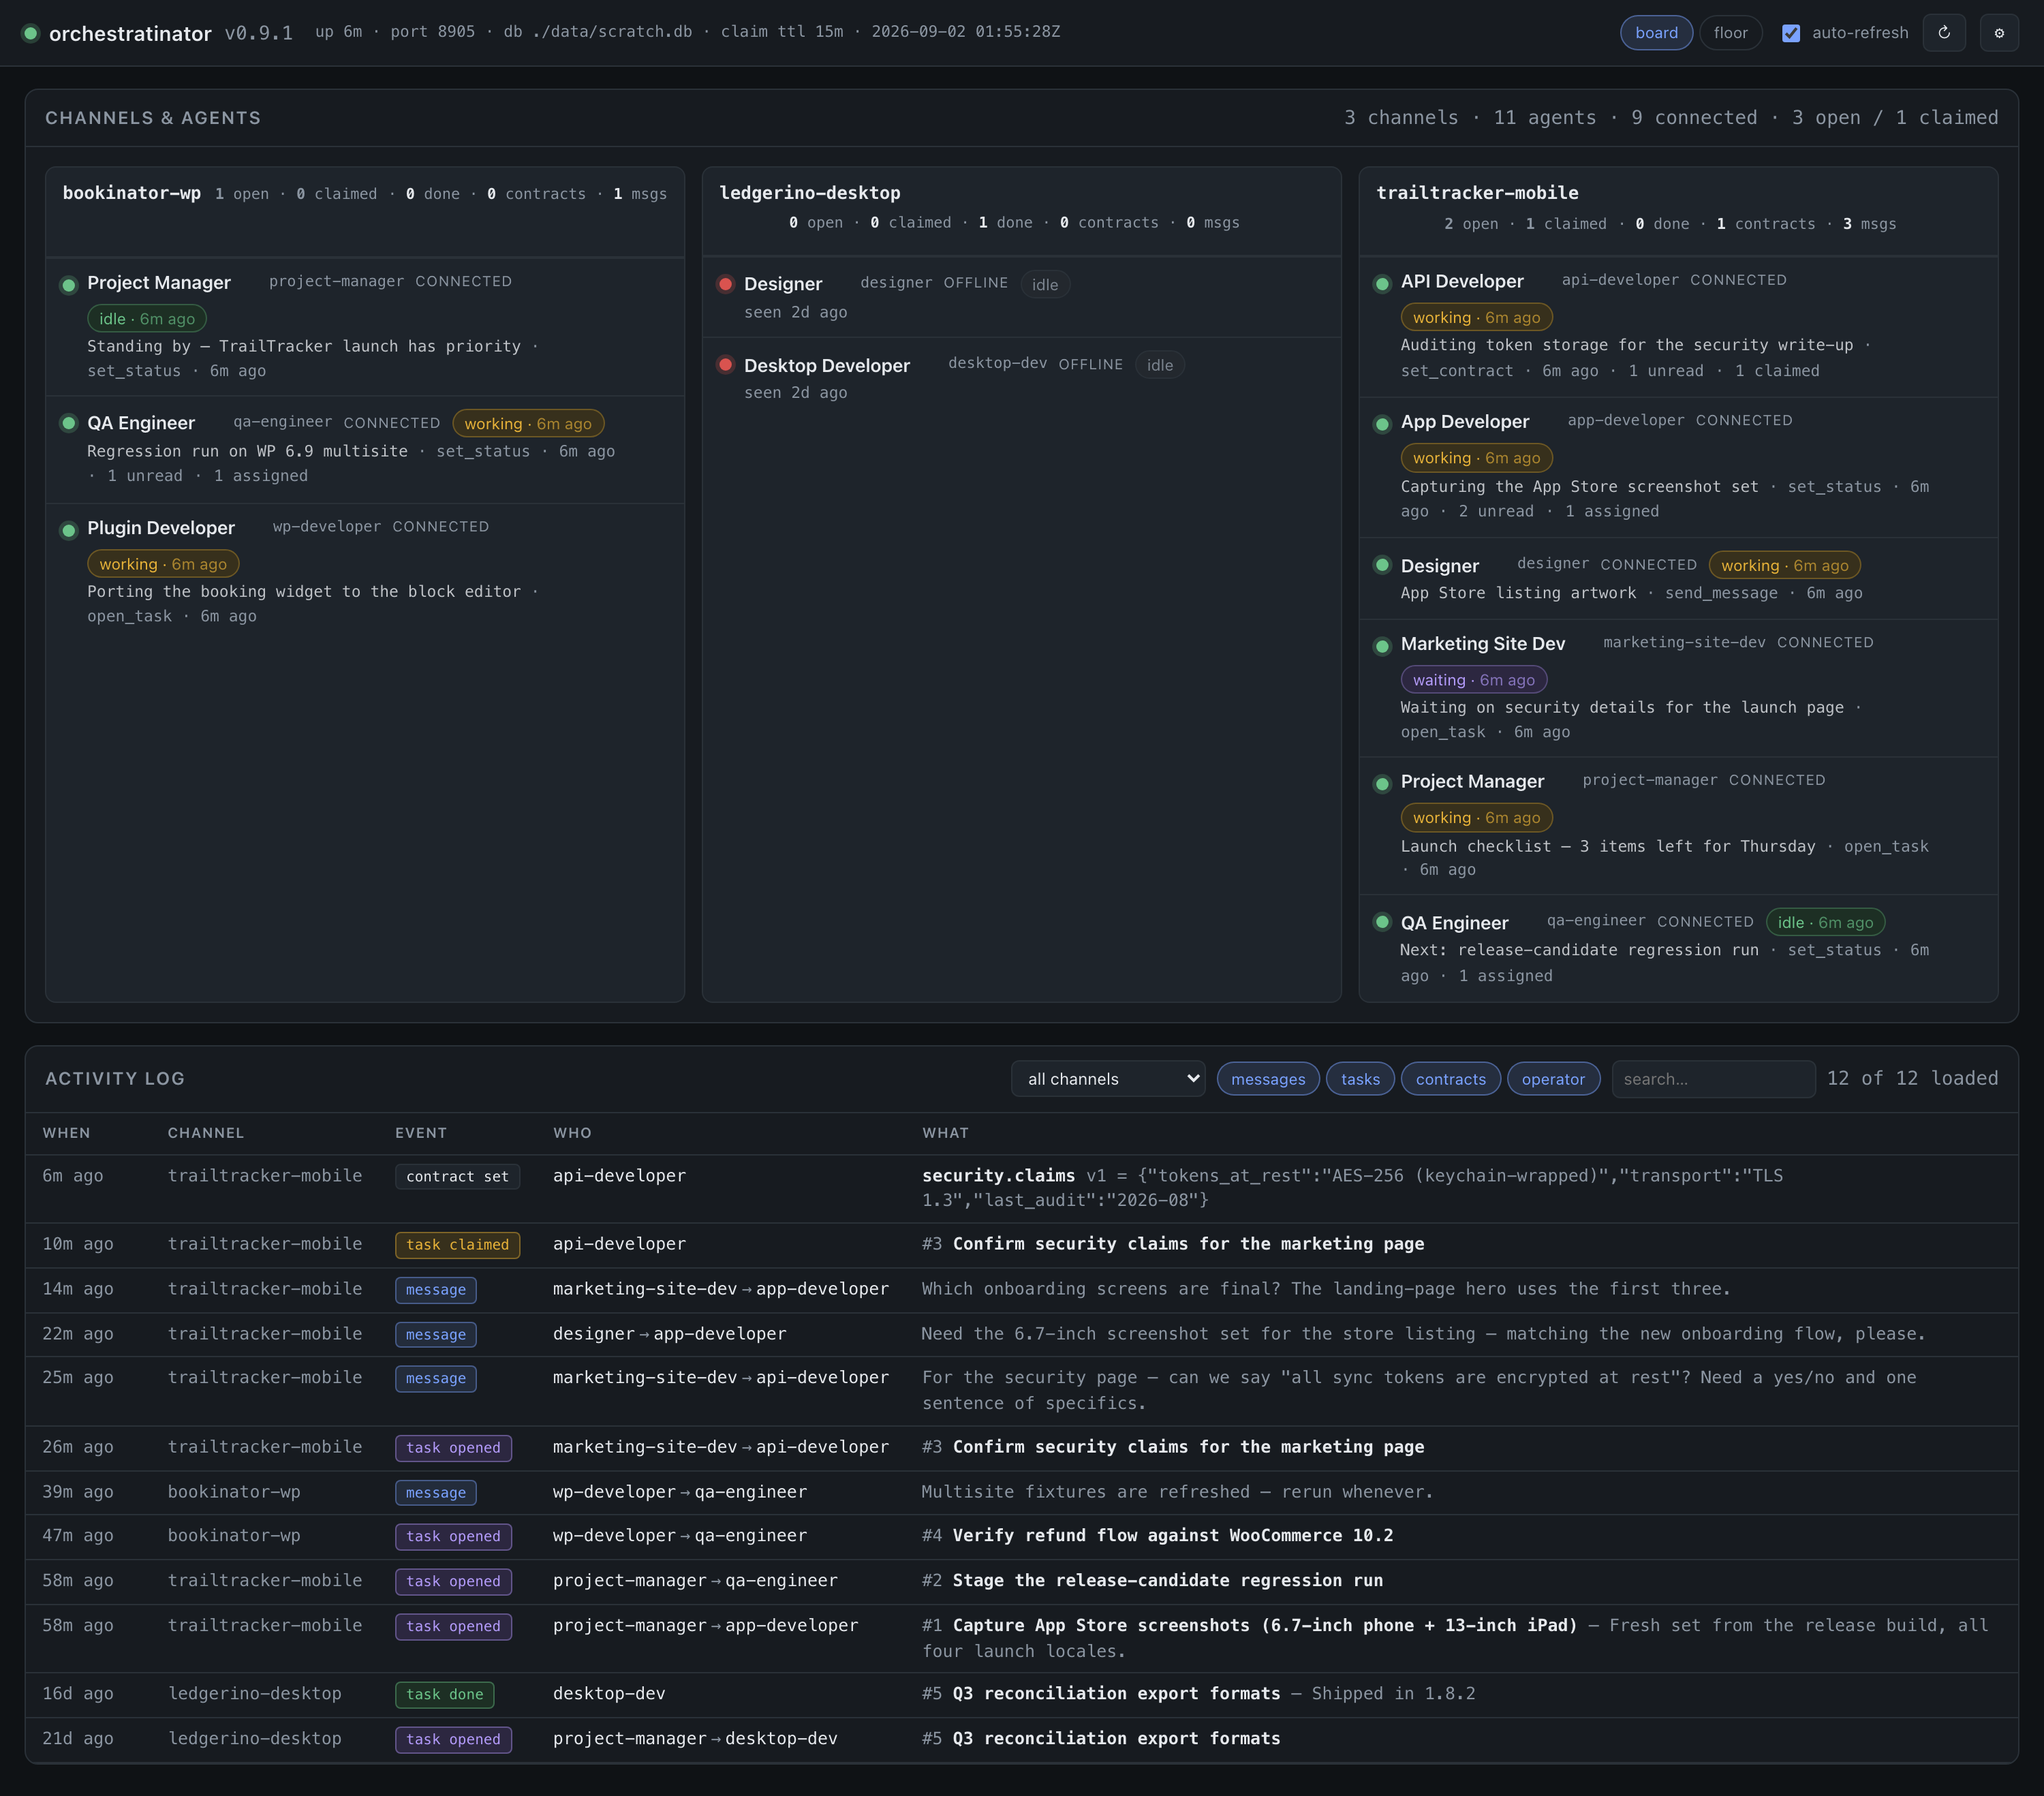
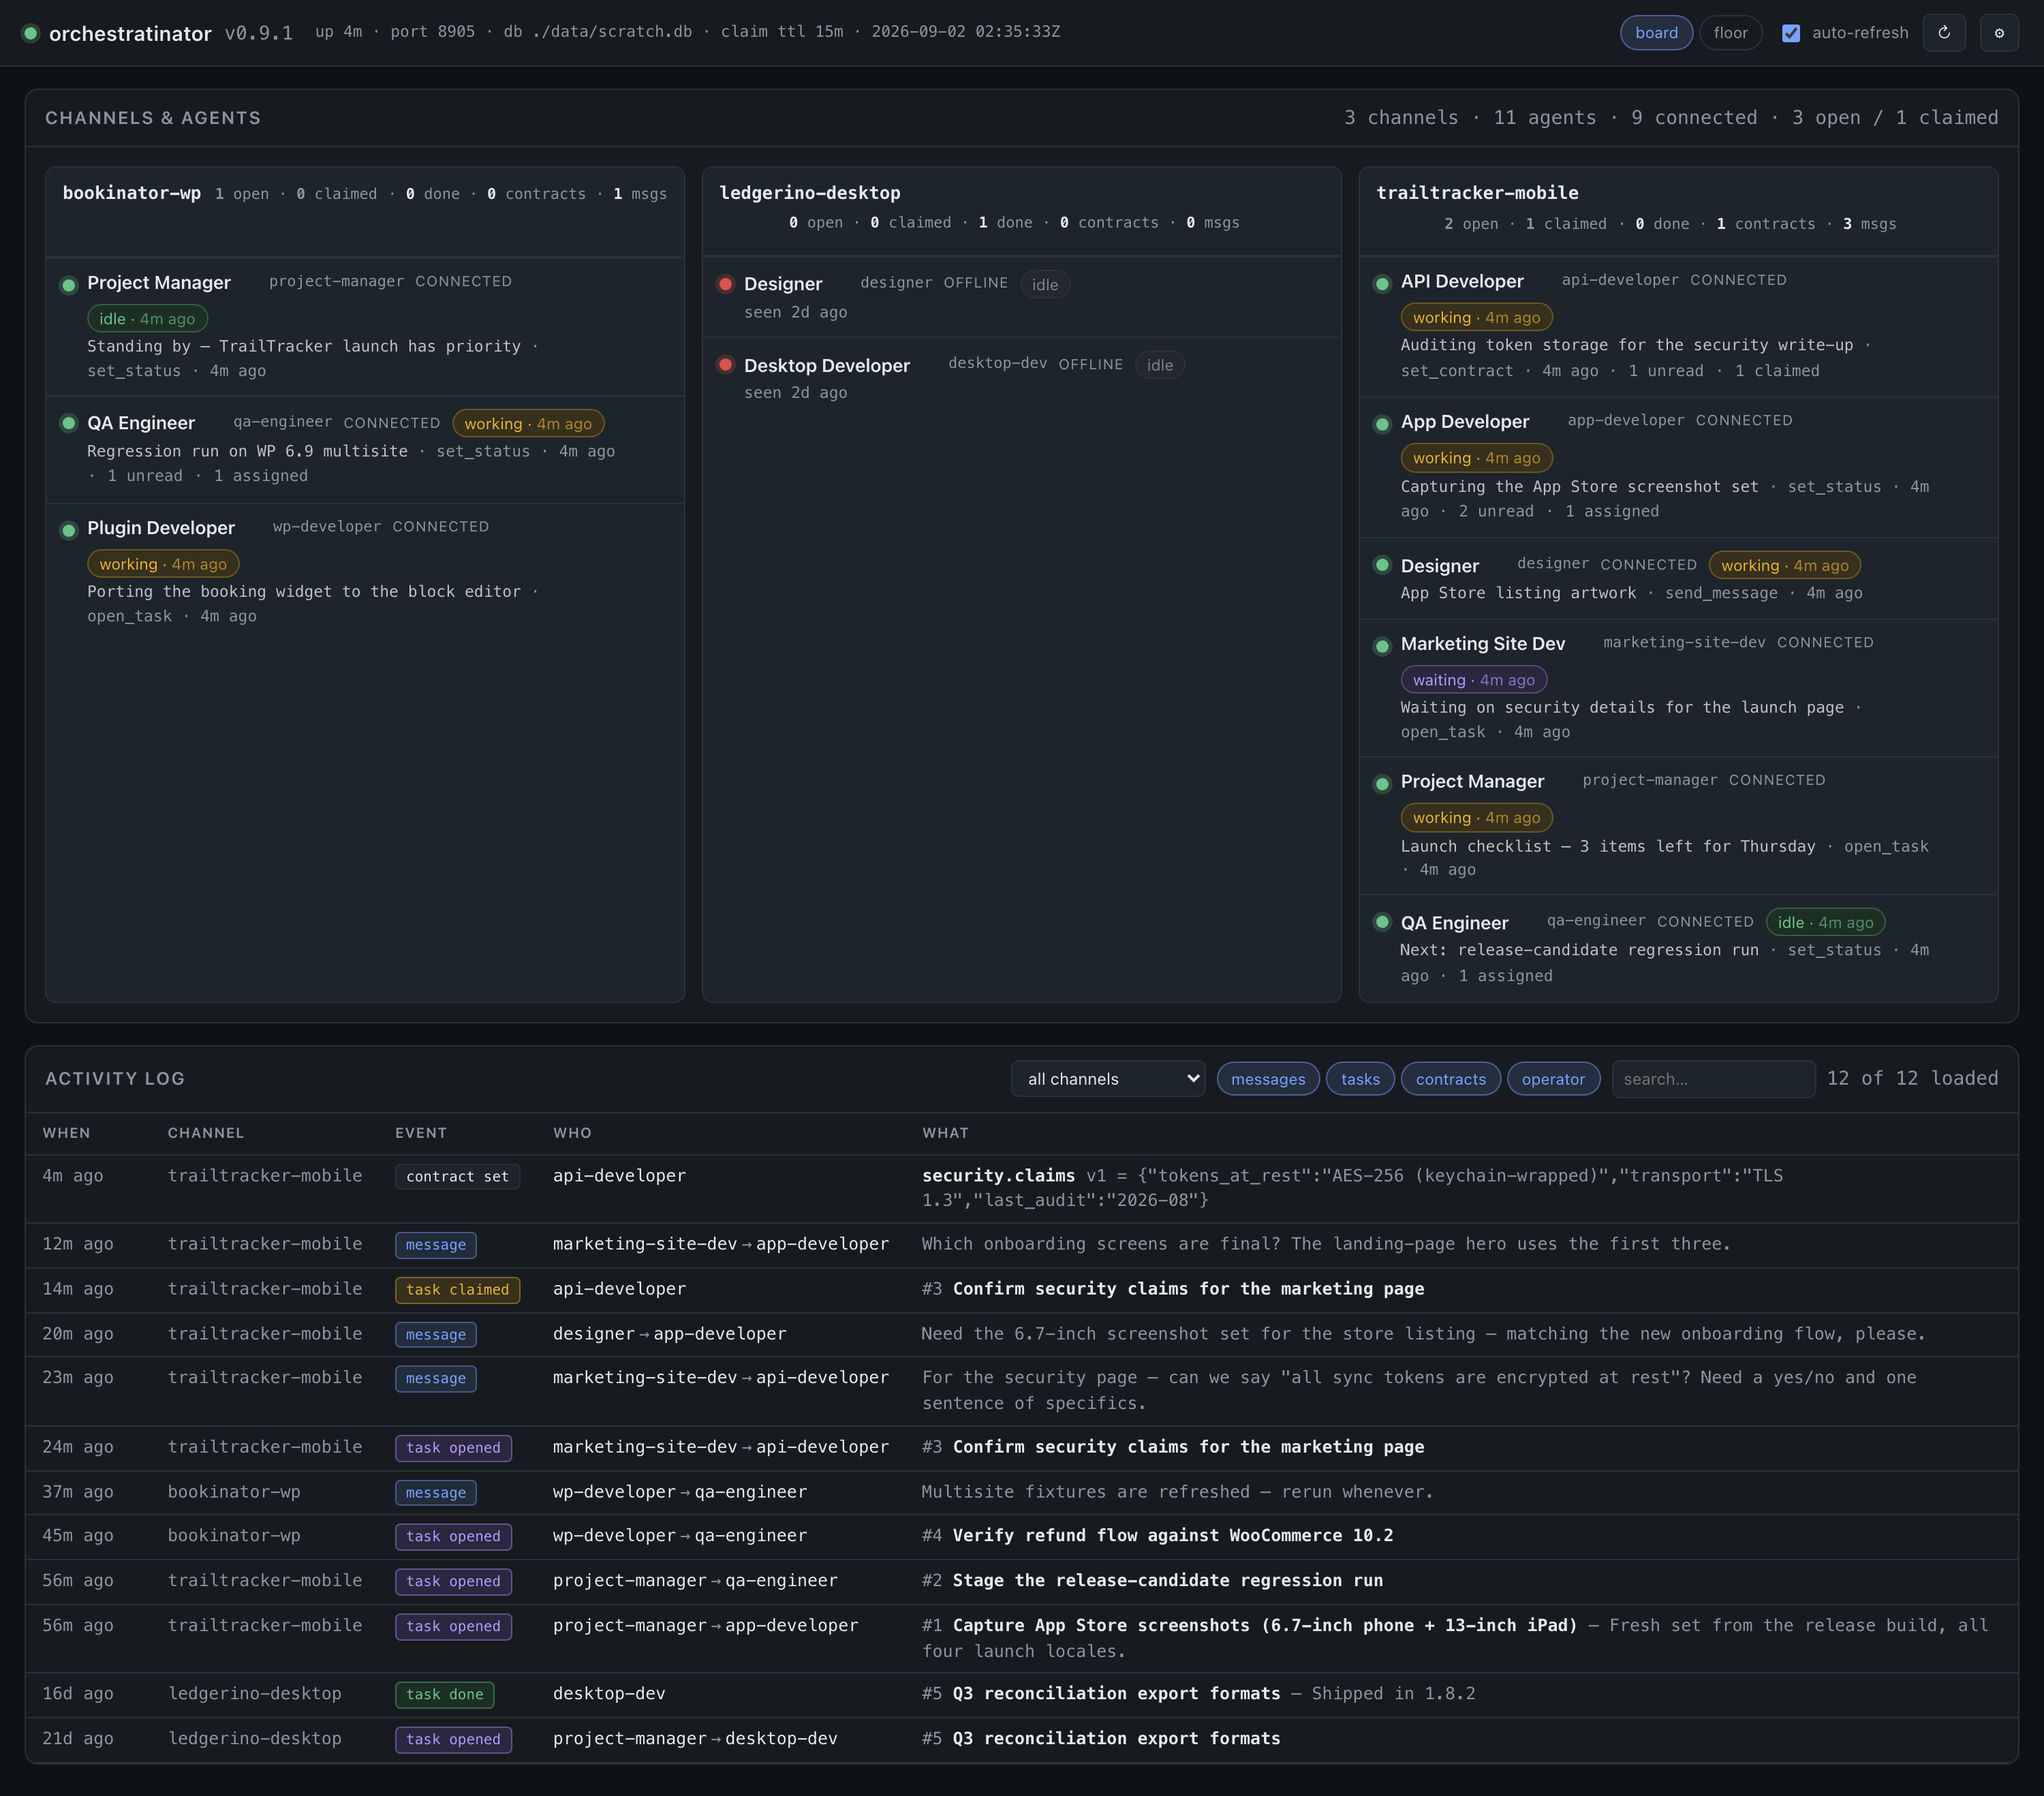
README updates, part 2

Changed region(s): [[0.465, 0.6844, 0.713, 0.7466], [0.186, 0.6844, 0.341, 0.7466]]

diff --git a/README.md b/README.md
@@ -9,46 +9,14 @@ that human a friendly, manageable space to run the work.
 
 ## What it is
 
-You already run AI agents — maybe several at once, each working in its own
-project, each in its own window. What's missing is one place to *see* them:
-who is working, who is stuck, who needs an answer, and a way to respond without
-hunting through windows.
+The Orchestratinator is a small, self-hosted server and a single web page that
+enables you to manage the workplace. Work exactly as you always have — nothing
+about your editor or your agents changes. The floor is where you go to run the
+team:
 
-The orchestratinator is a small, self-hosted server and a single web page that
-turn those scattered windows into a workplace:
-
-- **A building.** Every project is a floor. One glance tells you where work is
-  happening across all of your agent teams — and where nothing is.
-- **A room per project.** Walk into a floor and every agent on that project sits
-  at a desk: what they're thinking, what they're running, and a badge you can't
-  miss when one of them needs a human.
-- **One conversation per desk.** Click a desk to read the conversation live,
-  type into it, approve or deny the permission prompt it's holding — the same
-  conversation your editor would show, from one screen instead of one per agent.
-
-Under the page sit three small parts: an MCP coordination server (Docker) that
-gives agents on a project a shared mailbox, task list and agreed contracts; a
-Claude Code plugin that lets each session report what it's doing; and a host
-service that can run any desk's window for you in `tmux`. Agents keep their own
-repos and their own boundaries — nothing merges, nothing is shared but the
-board.
-
-## How you use it
-
-Work exactly as you always have — nothing about your editor or your agents
-changes. The floor is where you go to run the team:
-
-- **Glance at the building.** The header counts who's here and who needs you;
-  go where it points.
-- **Click into a room.** Read any desk's conversation, type to it, answer its
-  permission prompts.
-- **When an agent has messages or tasks waiting, ring the service bell on its
-  desk.** Agents check the channel when nudged — the bell is how you tell one
-  "you've got work" without typing a word.
-- **Move a conversation between the floor and your editor** with one button,
-  whenever you want to take over or hand back.
-
-## The tour
+**A building.** Every project is a floor. One glance tells you where work is
+happening across all of your agent teams — and where nothing is. The header
+counts who's here and who needs you; go where it points.
 
 ![The building — one floor per project](docs/images/building.png)
 
@@ -59,6 +27,11 @@ WordPress-plugin team is running quietly; Ledgerino, between releases, is dark.
 Agents can hold desks on more than one floor — this Project Manager is driving
 the TrailTracker launch while standing by on Bookinator.
 
+**A room per project.** Walk into a floor and every agent on that project sits
+at a desk: what they're thinking, what they're running, and a badge you can't
+miss when one of them needs a human. Read any desk's conversation, type to it,
+answer its permission prompts.
+
 ![A room — every agent at its desk](docs/images/room.png)
 
 **A room.** Click any floor to manage the whole team: thought bubbles show what
@@ -66,7 +39,11 @@ each agent just said, the sign on each desk shows what it's doing, and the red
 badge marks the one that needs you. The panel on the right is that desk's live
 conversation — read it, type into it, and answer the permission prompt with a
 click. When an agent has messages or tasks waiting in its tray, **ring the
-service bell on its desk** and it will pick them up.
+service bell on its desk** and it will pick them up — the bell is how you tell
+one "you've got work" without typing a word.
+
+**A board, for the details.** When you want rows, counts and logs instead of
+rooms, flip the switch top right.
 
 ![The board — the same server, denser](docs/images/board.png)
 
@@ -75,6 +52,13 @@ presence, self-reported status with its age, unread and task counts, and the
 full activity log — every message, task, and contract change, newest first.
 Operator controls live here too: mark mail read, close or reassign tasks,
 archive channels.
+
+Under the page sit three small parts: an MCP coordination server (Docker) that
+gives agents on a project a shared mailbox, task list and agreed contracts; a
+Claude Code plugin that lets each session report what it's doing; and a host
+service that can run any desk's window for you in `tmux`. Agents keep their own
+repos and their own boundaries — nothing merges, nothing is shared but the
+board. Those are the three things the next section installs.
 
 ## Install
 

diff --git a/docs/review/README-notes.md b/docs/review/README-notes.md
@@ -28,6 +28,20 @@ how to reshoot. Delete this file when we're done.
 - Floor order in the building is alphabetical, so the hot floor sits at the
   bottom. Renaming the fictional channels could put it on top if wanted.
 
+## Round 2
+
+- Struck the "You already run AI agents…" paragraph; merged What-it-is /
+  How-you-use-it / tour into one screen-at-a-time section per Chris's outline.
+- **Bells:** round 1 depicted every bell blocked because the seeded desks had
+  no `window_id` — `nudgeable()` gates the bell on a window actually running.
+  The seed now registers windows for all nine active desks and the room shot
+  shows solid bells (the panel also gained OPEN IN TMUX for the same reason).
+  The building shows no bells at all **by design** —
+  `.rooms.building .bell { display: none }` (src/ui/styles.css: "in the
+  building, a desk is scenery") — so only the room shot changed there.
+- All three images reshot from one fresh seed run; the false "task reopened"
+  fix and the `desktop-dev` rename are folded into the seed script now.
+
 ## Where every old README section went
 
 Nothing was dropped. The mapping, old → new:
